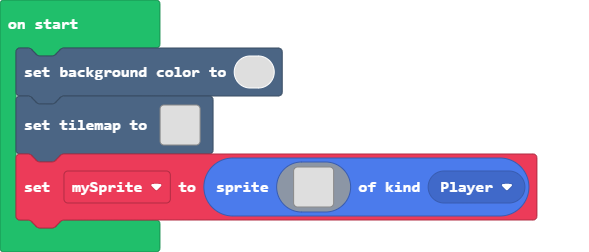
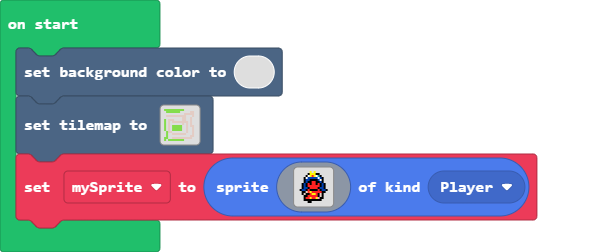
Update main.blocks, main.ts, images.g.jres, images.g.ts

Changed region(s): [[0.275, 0.4167, 0.3362, 0.5833], [0.489, 0.6667, 0.5501, 0.8056]]

diff --git a/images.g.ts b/images.g.ts
@@ -73,25 +73,6 @@ a a a . . 6 . . . . 6 . . . . .
 a a a a a a a a a a 6 . . . . . 
 . . . . . 6 6 6 6 6 . . . . . . 
 `;
-            case "image2":
-            case "princessFront2":return img`
-. . . . . . 5 . 5 . . . . . . . 
-. . . . . f 5 5 5 f f . . . . . 
-. . . . f 1 5 2 5 1 6 f . . . . 
-. . . f 1 8 8 8 8 8 1 8 f . . . 
-. . . f 8 8 f f f f 8 1 f . . . 
-. . . f 8 f f 2 2 f f 8 f . . . 
-. . f 8 f 2 f 2 2 f 2 f 8 f . . 
-. . f 8 f 2 2 2 2 2 2 f 8 f . . 
-. . f 8 8 f 2 2 2 2 f 8 8 f . . 
-. f 8 8 f 2 f f f f 2 f 8 8 f . 
-. . f f d 2 5 2 2 2 2 2 f f . . 
-. . f d f f 2 5 5 2 f d f . . . 
-. . . f f 2 2 2 2 2 f d f . . . 
-. . . f 2 2 5 2 2 5 3 f f . . . 
-. . . f f f f f f f f f . . . . 
-. . . . . f f . . . . . . . . . 
-`;
             case "image4":
             case "myImage0":return img`
 2 2 2 2 2 2 2 2 2 2 2 2 2 2 2 2 
@@ -110,6 +91,25 @@ a a a a a a a a a a 6 . . . . .
 2 2 2 2 2 6 6 6 6 6 6 6 6 2 2 2 
 2 2 2 2 2 2 2 2 2 2 2 2 2 2 2 2 
 2 2 2 2 2 2 2 2 2 2 2 2 2 2 2 2 
+`;
+            case "image2":
+            case "princessFront2":return img`
+. . . . . . 5 . 5 . . . . . . . 
+. . . . . f 5 5 5 f f . . . . . 
+. . . . f 1 5 2 5 1 6 f . . . . 
+. . . f 1 8 8 8 8 8 1 8 f . . . 
+. . . f 8 8 f f f f 8 1 f . . . 
+. . . f 8 f f 2 2 f f 8 f . . . 
+. . f 8 f 2 f 2 2 f 2 f 8 f . . 
+. . f 8 f 2 2 2 2 2 2 f 8 f . . 
+. . f 8 8 f 2 2 2 2 f 8 8 f . . 
+. f 8 8 f 2 f f f f 2 f 8 8 f . 
+. . f f d 2 5 2 2 2 2 2 f f . . 
+. . f d f f 2 5 5 2 f d f . . . 
+. . . f f 2 2 2 2 2 f d f . . . 
+. . . f 2 2 5 2 2 5 3 f f . . . 
+. . . f f f f f f f f f . . . . 
+. . . . . f f . . . . . . . . . 
 `;
         }
         return null;

diff --git a/main.ts b/main.ts
@@ -1,20 +1,3 @@
 scene.setBackgroundColor(0)
-tiles.setTilemap(tilemap`level1`)
-let mySprite = sprites.create(img`
-    . . . . . . . . . . . . . . . . 
-    . . . . . . . . . . . . . . . . 
-    . . . . . . . . . . . . . . . . 
-    . . . . . . . . . . . . . . . . 
-    . . . . . . . . . . . . . . . . 
-    . . . . . . . . . . . . . . . . 
-    . . . . . . . . . . . . . . . . 
-    . . . . . . . . . . . . . . . . 
-    . . . . . . . . . . . . . . . . 
-    . . . . . . . . . . . . . . . . 
-    . . . . . . . . . . . . . . . . 
-    . . . . . . . . . . . . . . . . 
-    . . . . . . . . . . . . . . . . 
-    . . . . . . . . . . . . . . . . 
-    . . . . . . . . . . . . . . . . 
-    . . . . . . . . . . . . . . . . 
-    `, SpriteKind.Player)
+tiles.setTilemap(tilemap`level3`)
+let mySprite = sprites.create(assets.image`princessFront2`, SpriteKind.Player)
